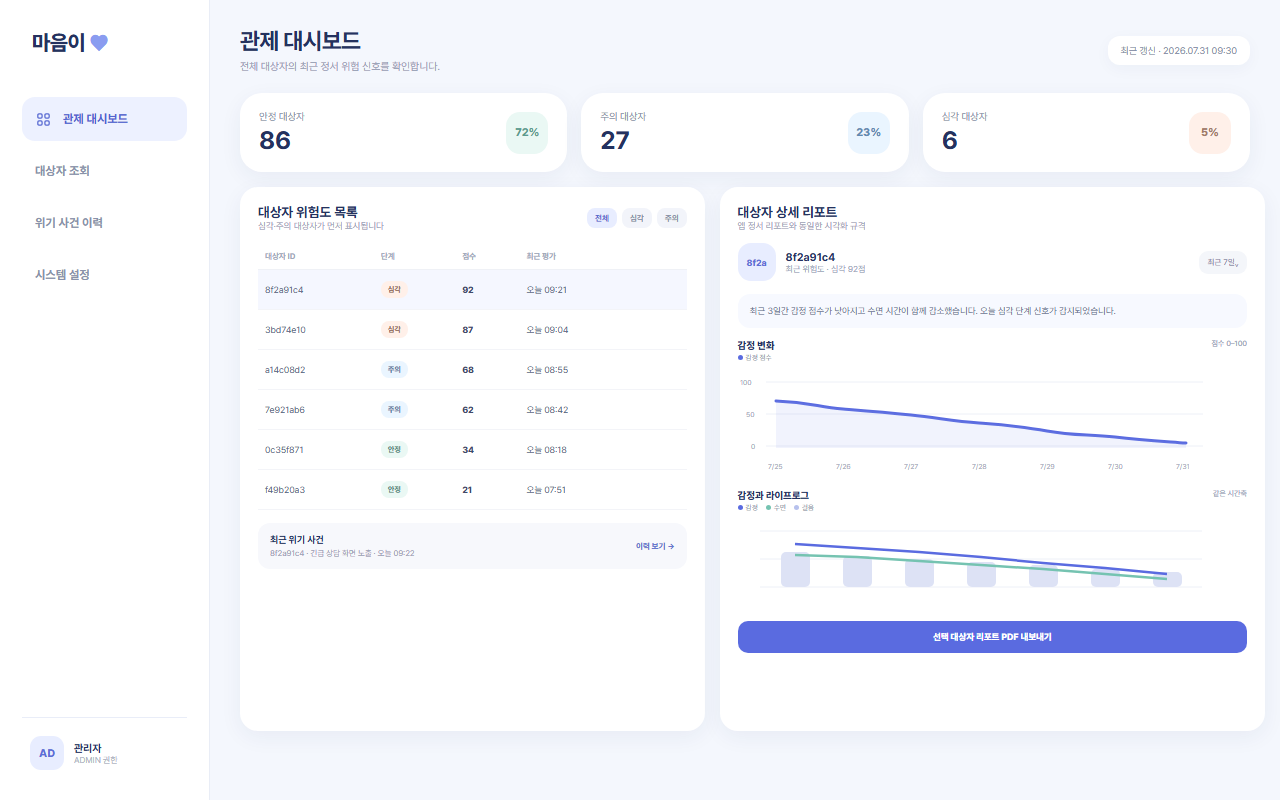
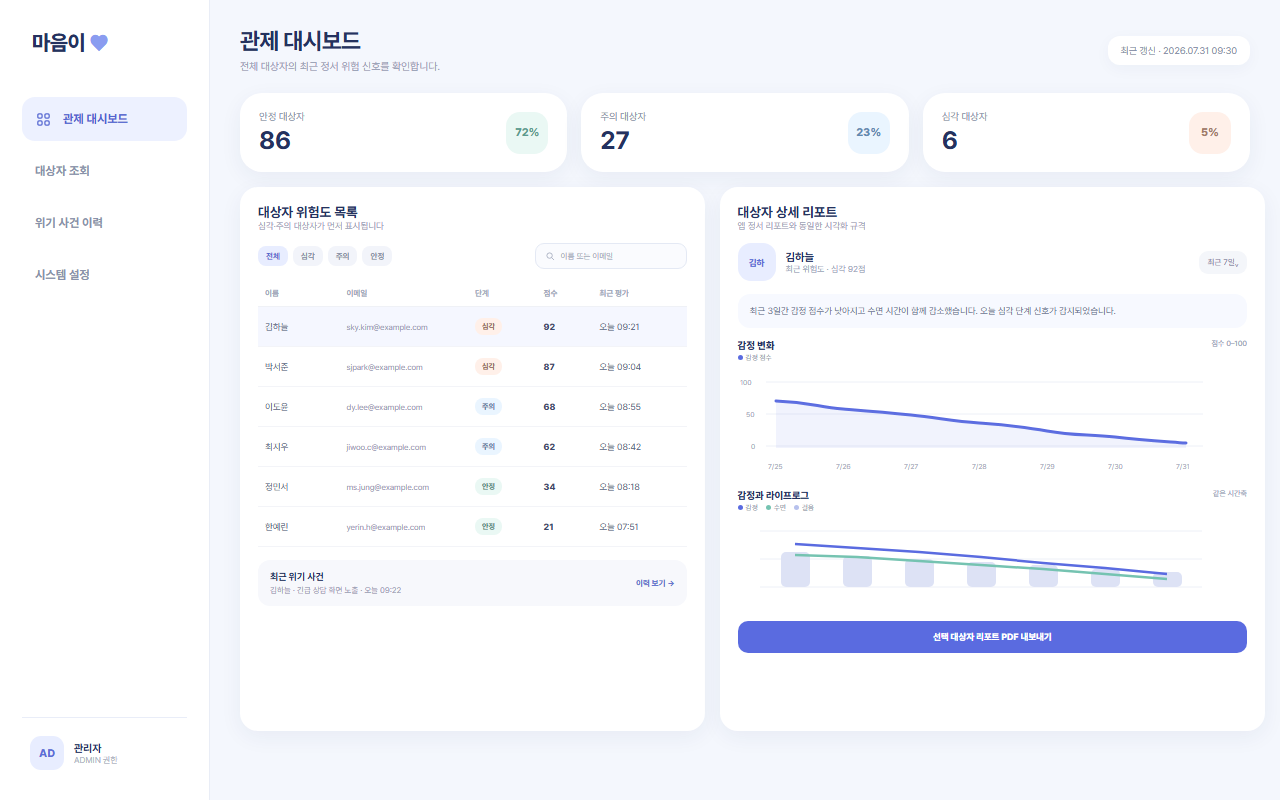
docs: 화면설계서 21번 시안을 화면설명에 맞춥니다 — 검색창이 그림에 없었습니다
ADMIN_DASH_01 화면설명은 ❷ 위험도 필터 · ❸ 이름·이메일 검색 · ❹ 평가일시·점수를
규정하는데, 시안 이미지에는 검색창이 아예 없고 목록이 `8f2a91c4` 같은 대상자 ID
해시였습니다. 검색할 이름·이메일이 그림 어디에도 없는 상태였습니다.

관리자 웹에는 검색이 이미 구현돼 있고(frontend/admin/src/App.jsx 의 search-box,
목록 컬럼도 이름·이메일) 화면설명과 구현이 서로 맞습니다. 그림만 옛것이었습니다.

- 필터 칩에 「안정」 추가 — 전체·심각·주의·안정으로 구현과 일치시킴
- 이름·이메일 검색창 추가. 제목줄 오른쪽에는 폭이 없어 조회 조건을 별도 줄로 분리
- 목록 컬럼 대상자ID → 이름·이메일. 상세 패널과 위기 사건 줄의 해시도 이름으로 통일
- 이메일은 RFC 2606 예약 도메인(example.com)이라 실재할 수 없음

아울러 사이드바 클래스명을 .nav 에서 .sidenav 로 바꿨습니다.

common.css 의 .nav 는 모바일 하단 탭바용(position:absolute; bottom:0; width:390px;
height:74px)인데 이 화면이 같은 이름을 사이드바에 써서, 50f4050 이후로 이 시안을
다시 구우면 사이드바가 좌하단으로 밀려 잘립니다. .nav div · .nav span 도 함께
걸려 아이콘이 글자 위로 올라갑니다. 커밋돼 있던 PNG 는 그 규칙이 들어오기 전에
구워진 것이라 멀쩡해 보였고, 재렌더할 때만 드러납니다. 되돌리지 않도록 주석을
남겼습니다. .nav 를 쓰는 나머지 셋(MAIN_HOME_01 · MAIN_LIFELOG_01 ·
MAIN_SETTING_01)은 전부 모바일 탭바라 의도대로 동작합니다.

산출물 PPTX 는 이 커밋에 없습니다. documents/화면설계서_귀기울임.pptx 의
슬라이드 21 은 아직 옛 이미지(image105.png)이고, 어느 사본을 정본으로 둘지
정해지면 같은 교체를 적용해야 합니다.

마커(❶~❼) 위치는 코드로 못 하는 디자인 작업이라 손대지 않았습니다. 현재 ❶❷❹❺❻❼
가 x≈207px 에 세로로 늘어서 있고 ❼는 이미지 아래(y≈833px)로 벗어나 있습니다.

diff --git a/docs/design/src/ADMIN_DASH_01.html b/docs/design/src/ADMIN_DASH_01.html
@@ -6,9 +6,12 @@
   body { display:grid;grid-template-columns:210px 1fr; }
   aside { background:#fff;padding:30px 22px;border-right:1px solid #E9EDF6;display:flex;flex-direction:column; }
   aside .brand { font-size:21px;margin:0 10px 42px; }
-  .nav { display:flex;flex-direction:column;gap:8px; }
-  .nav-item { height:44px;border-radius:13px;display:flex;align-items:center;gap:11px;padding:0 13px;color:#8992AA;font-size:12px;font-weight:700; }
-  .nav-item.on { background:#EDF1FF;color:#5264D1; }
+  /* ⚠ 클래스명을 `nav` 로 되돌리지 마세요. common.css 의 `.nav` 는 모바일 하단
+     탭바용(position:absolute; bottom:0; width:390px; height:74px)이라, 이 사이드바에
+     걸리면 좌하단으로 밀려 잘립니다. `.nav div`·`.nav span` 도 같이 걸립니다. */
+  .sidenav { display:flex;flex-direction:column;gap:8px; }
+  .sidenav-item { height:44px;border-radius:13px;display:flex;align-items:center;gap:11px;padding:0 13px;color:#8992AA;font-size:12px;font-weight:700; }
+  .sidenav-item.on { background:#EDF1FF;color:#5264D1; }
   .admin { margin-top:auto;border-top:1px solid var(--line);padding:18px 8px 0;display:flex;gap:10px;align-items:center; }
   .admin .avatar { width:34px;height:34px;border-radius:11px;background:#E8EDFF;display:flex;align-items:center;justify-content:center;color:#5C6ED7;font-size:11px;font-weight:800; }
   .admin b { font-size:10.5px;display:block }.admin small{font-size:8.5px;color:#ABB1C2}
@@ -26,6 +29,13 @@
   .panel-head { display:flex;justify-content:space-between;align-items:center;margin-bottom:12px; }
   .panel-head h2 { font-size:13.5px }.panel-head small{font-size:9px;color:#9DA5B8}
   .filters { display:flex;gap:5px }.filter{padding:5px 8px;border-radius:8px;background:#F2F4FA;color:#8B93A8;font-size:8px;font-weight:700}.filter.on{background:#E8EDFF;color:#5869D0}
+  /* 조회 조건 줄 — 위험도 필터(❷) + 이름·이메일 검색(❸).
+     panel-head 오른쪽에 같이 넣으면 검색창 폭이 없어 제목을 밀어낸다. */
+  .query { display:flex;align-items:center;gap:8px;margin-bottom:11px; }
+  .search { margin-left:auto;display:flex;align-items:center;gap:6px;width:152px;height:26px;padding:0 9px;
+            border:1px solid #E4E9F4;background:#FAFBFE;border-radius:9px; }
+  .search span { font-size:8px;color:#A8AEC0; }
+  .mail { color:#98A0B5;font-size:8px;overflow:hidden;text-overflow:ellipsis;white-space:nowrap; }
   table { width:100%;border-collapse:collapse;table-layout:fixed; }
   th { text-align:left;font-size:8px;color:#A2A9BA;font-weight:700;padding:8px 7px;border-bottom:1px solid #EFF1F6; }
   td { font-size:9px;color:#606A87;padding:11px 7px;border-bottom:1px solid #F3F4F8; }
@@ -45,24 +55,28 @@
   .download { height:32px;border-radius:10px;background:#5A6BE0;color:#fff;display:flex;align-items:center;justify-content:center;font-size:9px;font-weight:750;margin-top:7px; }
 </style>
 <body>
-  <aside><div class="brand">마음이 <span>♥</span></div><div class="nav"><div class="nav-item on"><svg width="17" height="17" viewBox="0 0 24 24" fill="none"><rect x="4" y="4" width="6" height="6" rx="1.5" stroke="#596AD2" stroke-width="1.8"/><rect x="14" y="4" width="6" height="6" rx="1.5" stroke="#596AD2" stroke-width="1.8"/><rect x="4" y="14" width="6" height="6" rx="1.5" stroke="#596AD2" stroke-width="1.8"/><rect x="14" y="14" width="6" height="6" rx="1.5" stroke="#596AD2" stroke-width="1.8"/></svg>관제 대시보드</div><div class="nav-item">대상자 조회</div><div class="nav-item">위기 사건 이력</div><div class="nav-item">시스템 설정</div></div><div class="admin"><div class="avatar">AD</div><div><b>관리자</b><small>ADMIN 권한</small></div></div></aside>
+  <aside><div class="brand">마음이 <span>♥</span></div><div class="sidenav"><div class="sidenav-item on"><svg width="17" height="17" viewBox="0 0 24 24" fill="none"><rect x="4" y="4" width="6" height="6" rx="1.5" stroke="#596AD2" stroke-width="1.8"/><rect x="14" y="4" width="6" height="6" rx="1.5" stroke="#596AD2" stroke-width="1.8"/><rect x="4" y="14" width="6" height="6" rx="1.5" stroke="#596AD2" stroke-width="1.8"/><rect x="14" y="14" width="6" height="6" rx="1.5" stroke="#596AD2" stroke-width="1.8"/></svg>관제 대시보드</div><div class="sidenav-item">대상자 조회</div><div class="sidenav-item">위기 사건 이력</div><div class="sidenav-item">시스템 설정</div></div><div class="admin"><div class="avatar">AD</div><div><b>관리자</b><small>ADMIN 권한</small></div></div></aside>
   <main>
     <div class="top"><div><h1>관제 대시보드</h1><p>전체 대상자의 최근 정서 위험 신호를 확인합니다.</p></div><div class="time">최근 갱신 · 2026.07.31 09:30</div></div>
     <div class="metrics"><div class="card metric stable"><div><small>안정 대상자</small><b>86</b></div><div class="circle">72%</div></div><div class="card metric watch"><div><small>주의 대상자</small><b>27</b></div><div class="circle">23%</div></div><div class="card metric critical"><div><small>심각 대상자</small><b>6</b></div><div class="circle">5%</div></div></div>
     <div class="grid">
-      <section class="card panel"><div class="panel-head"><div><h2>대상자 위험도 목록</h2><small>심각·주의 대상자가 먼저 표시됩니다</small></div><div class="filters"><span class="filter on">전체</span><span class="filter">심각</span><span class="filter">주의</span></div></div>
-        <table><thead><tr><th style="width:27%">대상자 ID</th><th style="width:19%">단계</th><th style="width:15%">점수</th><th>최근 평가</th></tr></thead><tbody>
-          <tr class="sel"><td>8f2a91c4</td><td><span class="level crit">심각</span></td><td class="score">92</td><td>오늘 09:21</td></tr>
-          <tr><td>3bd74e10</td><td><span class="level crit">심각</span></td><td class="score">87</td><td>오늘 09:04</td></tr>
-          <tr><td>a14c08d2</td><td><span class="level cau">주의</span></td><td class="score">68</td><td>오늘 08:55</td></tr>
-          <tr><td>7e921ab6</td><td><span class="level cau">주의</span></td><td class="score">62</td><td>오늘 08:42</td></tr>
-          <tr><td>0c35f871</td><td><span class="level norm">안정</span></td><td class="score">34</td><td>오늘 08:18</td></tr>
-          <tr><td>f49b20a3</td><td><span class="level norm">안정</span></td><td class="score">21</td><td>오늘 07:51</td></tr>
+      <section class="card panel"><div class="panel-head"><div><h2>대상자 위험도 목록</h2><small>심각·주의 대상자가 먼저 표시됩니다</small></div></div>
+        <div class="query">
+          <div class="filters"><span class="filter on">전체</span><span class="filter">심각</span><span class="filter">주의</span><span class="filter">안정</span></div>
+          <div class="search"><svg width="10" height="10" viewBox="0 0 24 24" fill="none"><circle cx="11" cy="11" r="6.5" stroke="#AAB0C2" stroke-width="2.2"/><path d="M16 16L21 21" stroke="#AAB0C2" stroke-width="2.2" stroke-linecap="round"/></svg><span>이름 또는 이메일</span></div>
+        </div>
+        <table><thead><tr><th style="width:19%">이름</th><th style="width:30%">이메일</th><th style="width:16%">단계</th><th style="width:13%">점수</th><th>최근 평가</th></tr></thead><tbody>
+          <tr class="sel"><td>김하늘</td><td class="mail">sky.kim@example.com</td><td><span class="level crit">심각</span></td><td class="score">92</td><td>오늘 09:21</td></tr>
+          <tr><td>박서준</td><td class="mail">sjpark@example.com</td><td><span class="level crit">심각</span></td><td class="score">87</td><td>오늘 09:04</td></tr>
+          <tr><td>이도윤</td><td class="mail">dy.lee@example.com</td><td><span class="level cau">주의</span></td><td class="score">68</td><td>오늘 08:55</td></tr>
+          <tr><td>최지우</td><td class="mail">jiwoo.c@example.com</td><td><span class="level cau">주의</span></td><td class="score">62</td><td>오늘 08:42</td></tr>
+          <tr><td>정민서</td><td class="mail">ms.jung@example.com</td><td><span class="level norm">안정</span></td><td class="score">34</td><td>오늘 08:18</td></tr>
+          <tr><td>한예린</td><td class="mail">yerin.h@example.com</td><td><span class="level norm">안정</span></td><td class="score">21</td><td>오늘 07:51</td></tr>
         </tbody></table>
-        <div class="event"><div><b>최근 위기 사건</b><p>8f2a91c4 · 긴급 상담 화면 노출 · 오늘 09:22</p></div><span>이력 보기 →</span></div>
+        <div class="event"><div><b>최근 위기 사건</b><p>김하늘 · 긴급 상담 화면 노출 · 오늘 09:22</p></div><span>이력 보기 →</span></div>
       </section>
       <section class="card panel"><div class="panel-head"><div><h2>대상자 상세 리포트</h2><small>앱 정서 리포트와 동일한 시각화 규격</small></div></div>
-        <div class="detail-id"><div class="avatar">8f2a</div><div><b>8f2a91c4</b><small>최근 위험도 · 심각 92점</small></div><div class="period">최근 7일⌄</div></div>
+        <div class="detail-id"><div class="avatar">김하</div><div><b>김하늘</b><small>최근 위험도 · 심각 92점</small></div><div class="period">최근 7일⌄</div></div>
         <div class="summary">최근 3일간 감정 점수가 낮아지고 수면 시간이 함께 감소했습니다. 오늘 심각 단계 신호가 감지되었습니다.</div>
         <div class="chart-title">감정 변화 <small>점수 0–100</small></div><div class="legend"><span><i style="background:#5A6BE0"></i>감정 점수</span></div>
         <svg width="474" height="120" viewBox="0 0 474 120"><g stroke="#EDF0F7"><path d="M28 18H465M28 50H465M28 82H465"/></g><g fill="#A8ACBA" font-size="7" font-family="Pretendard"><text x="2" y="21">100</text><text x="8" y="53">50</text><text x="13" y="85">0</text><text x="30" y="105">7/25</text><text x="98" y="105">7/26</text><text x="166" y="105">7/27</text><text x="234" y="105">7/28</text><text x="302" y="105">7/29</text><text x="370" y="105">7/30</text><text x="438" y="105">7/31</text></g><path d="M38 37C73 38 79 43 105 45S145 48 173 51S215 57 241 59S282 62 309 67S351 70 377 73S421 77 448 79" fill="none" stroke="#5A6BE0" stroke-width="3" stroke-linecap="round"/><path d="M38 37C73 38 79 43 105 45S145 48 173 51S215 57 241 59S282 62 309 67S351 70 377 73S421 77 448 79V84H38Z" fill="#8A9CF0" opacity=".12"/></svg>
